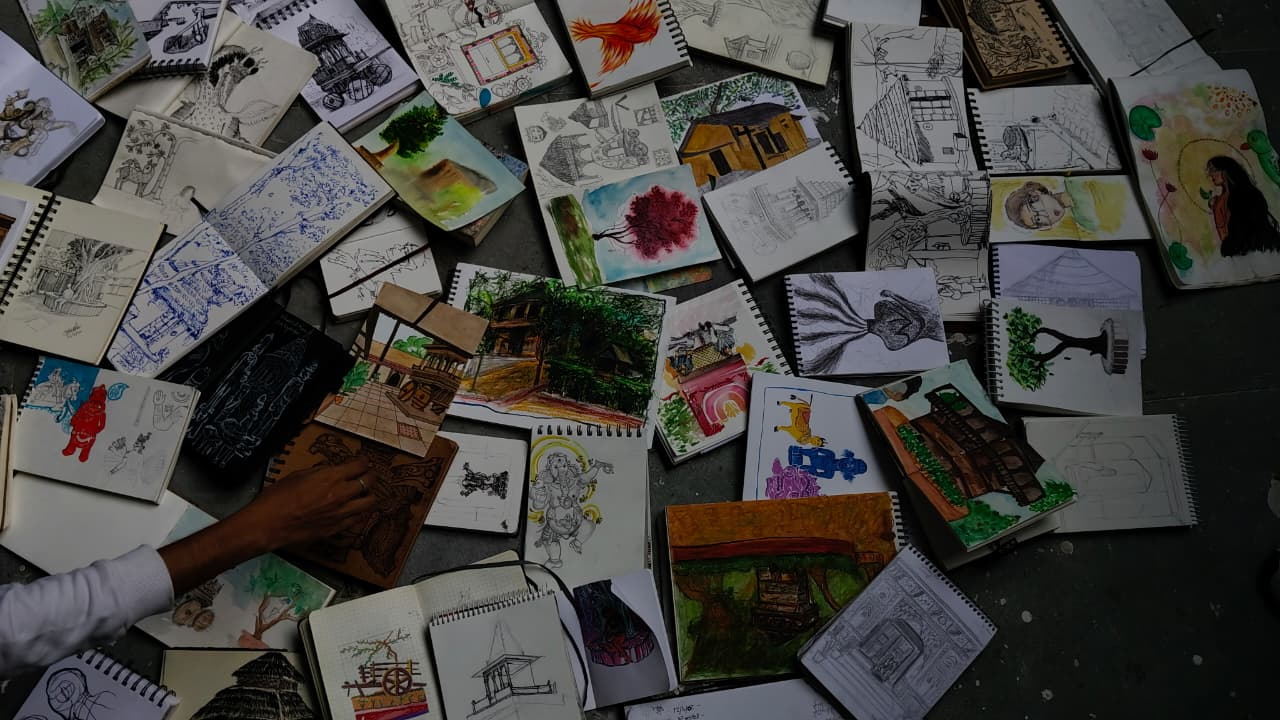
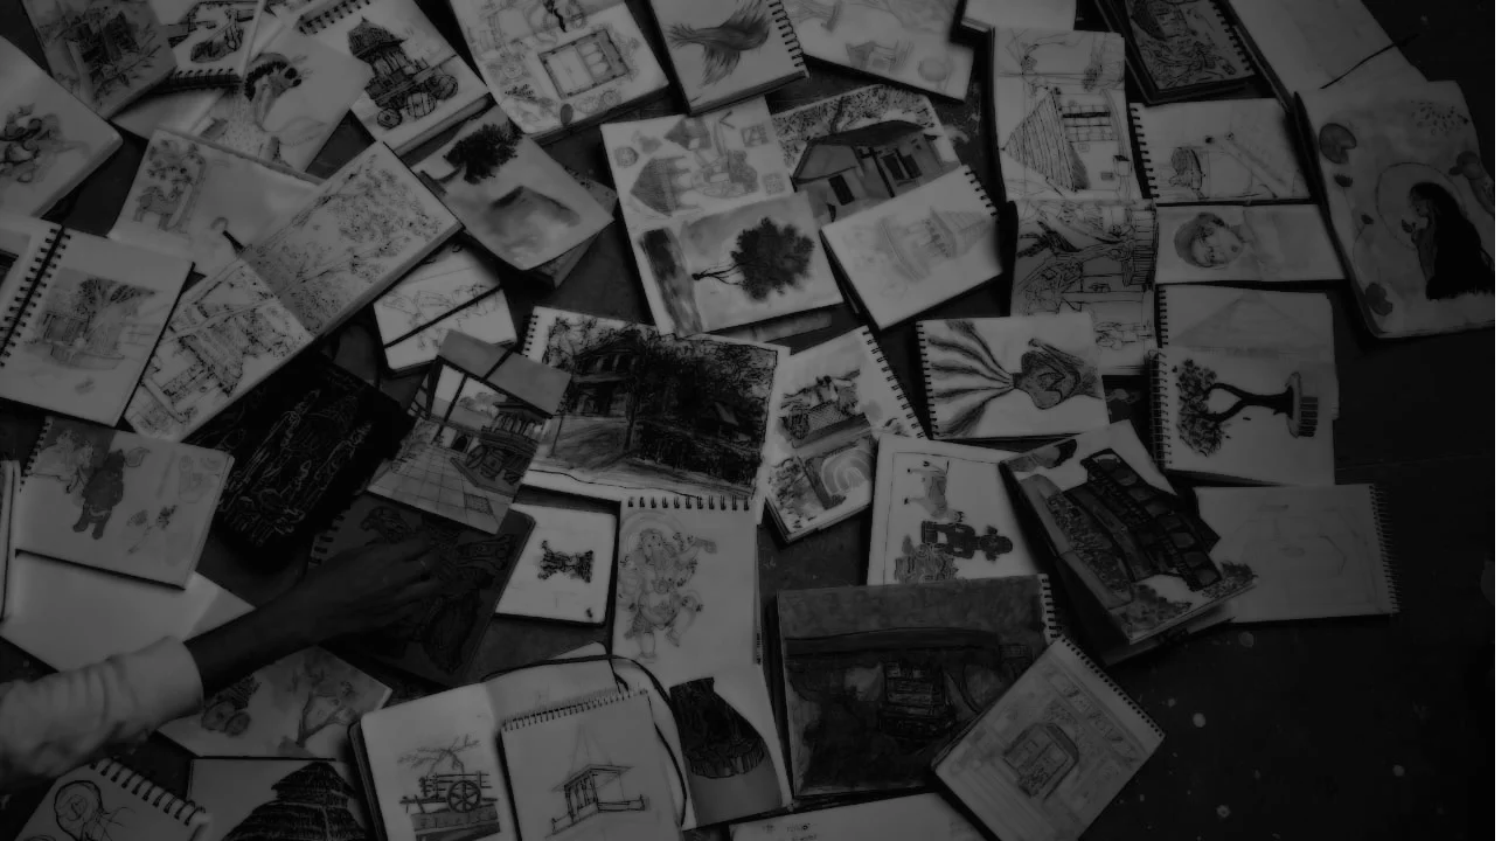
improved home page aesthetics, and added text content

diff --git a/style.css b/style.css
@@ -1,9 +1,14 @@
 /* Base background */
-body {background-color: rgb(22, 69, 155);
+* {
+    margin:0;
+    padding: 0;
+    box-sizing: border-box;
+}
+
+body .home, html{background-color: rgb(98, 12, 12);
       margin: 0%;
-      font-family: monospace;
       width: 100%;
-      overflow-x: hidden;
+      overflow: hidden;
     }
 
 .bg-image {
@@ -13,38 +18,75 @@ body {background-color: rgb(22, 69, 155);
     width: 100%;
     height: 100%;
     background-image: url(visuals/back.jpeg);
-    opacity: 0.8;
-    z-index: -1
+    opacity: 0.7;
+    z-index: -1;
+    background-size: cover;
 }
 
 /* header navigation bar */
 .navi {
     background: #d7c4b7;
-    padding: 15px;
+    padding: 17px;
     text-align: center;
-    border-bottom: 2px dashed #b8a394;
+    border-bottom: 2px solid rgb(98, 12, 12);
+    border-top: 2px solid rgb(98, 12, 12);
     opacity: 0.8;
 }
 .navi a {
-    margin: 0 15px;
+    margin: 0 60px;
     text-decoration: none;
     color: #4a3b32;
-    font-size: 20px;
+    font-size: 25px;
 }
 
-/* my picture */
+/* my picture and main text*/
 .my-picture {
     position: absolute;
-    top: 70%;
-    left: 50%;
+    bottom: 50%;
+    left: 48%;
     transform: translate(-50%, -50%);
     width: 700px;   
     padding: 10px 10px 25px 10px; 
     box-shadow: 3px 6px 15px rgba(0,0,0,0.2);
 }
 
-.my-picture img{
+.pic{
     width:100%;
     height:auto;
     display:block;
+    z-index: 1;
+    display: block;
+    position: absolute;
+}
+
+.back-text {
+    position: absolute;
+    font-size: 250px;
+    font-weight: 900;
+    color:#952929;
+    z-index: 0;
+    pointer-events: none;
+    top: 45%;
+    left: 50%;
+    transform: translate(-50%, -50%);
+    white-space: nowrap;
+
+}
+
+/* left content */
+
+.left-content {
+    position: absolute;
+    bottom: 11%;
+    left: 7%;
+    font-size:x-large;
+    color: #d7c4b7;
+}
+.right-content {
+    position: absolute;
+    bottom: 11%;
+    right: 7%;
+    font-size:x-large;
+    color: #d7c4b7;
+    width: 280px;
 }

diff --git a/index.html b/index.html
@@ -6,7 +6,7 @@
     <title>Document</title>
     <link rel="stylesheet" href="style.css"
 </head>
-<body>
+<body class="Home">
 <p>this is me</p>
 <!-- full-screen background image -->
 <div class="bg-image"></div>
@@ -19,12 +19,24 @@
     <a href="artwork.html">My-Artworks</a>
 </nav>
 
-<!-- my picture -->
+<!-- my picture and main text -->
 <div class="my-picture">
-    <img src="visuals/image-Photoroom (5).png" alt="Me (cutie)">
+    <h1 class="back-text">MY  ART</h1>
+    <img src="visuals/image-Photoroom (5).png" alt="Me (cutie)" class="pic">
 </div>
 
-
+<!-- left and right content -->
+ <div class="left-content">
+    <ol type="i">
+        <li>I'm Mukul (the best name there is)</li>
+        <li>I'm 15 (the best age there is)</li>
+        <li>AND I LOVEEEE ART</li>
+        <li>istg, not exaggerated</li>
+    </ol>
+ </div>
+ <div class="right-content">
+    <p>I'm mukul (again) and I am a big art geek, i write, i read, i draw and more because why limit yourself, ye? So check out my stuff on this website.</p>
+ </div>
 
 </body>
 </html>
